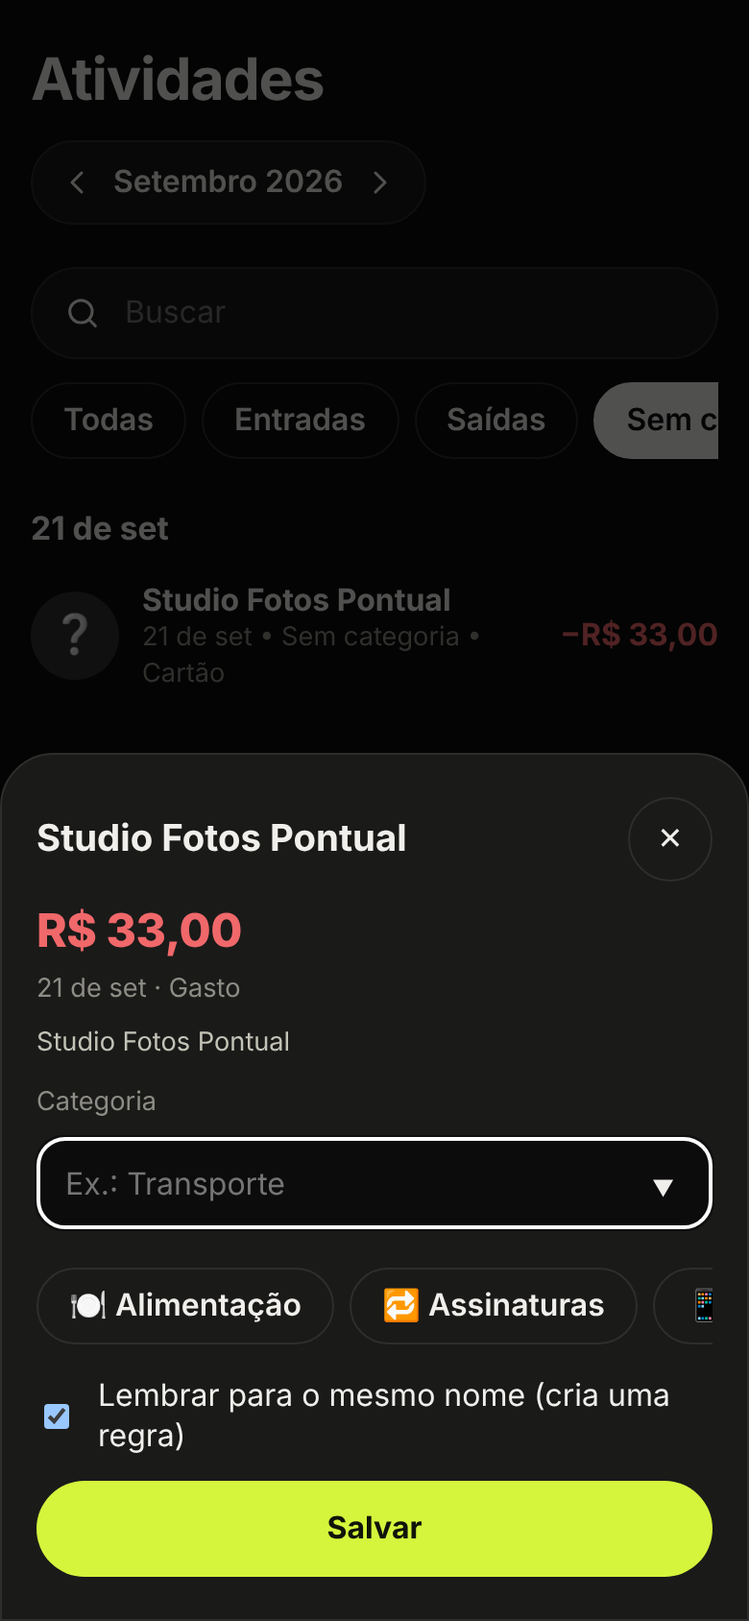
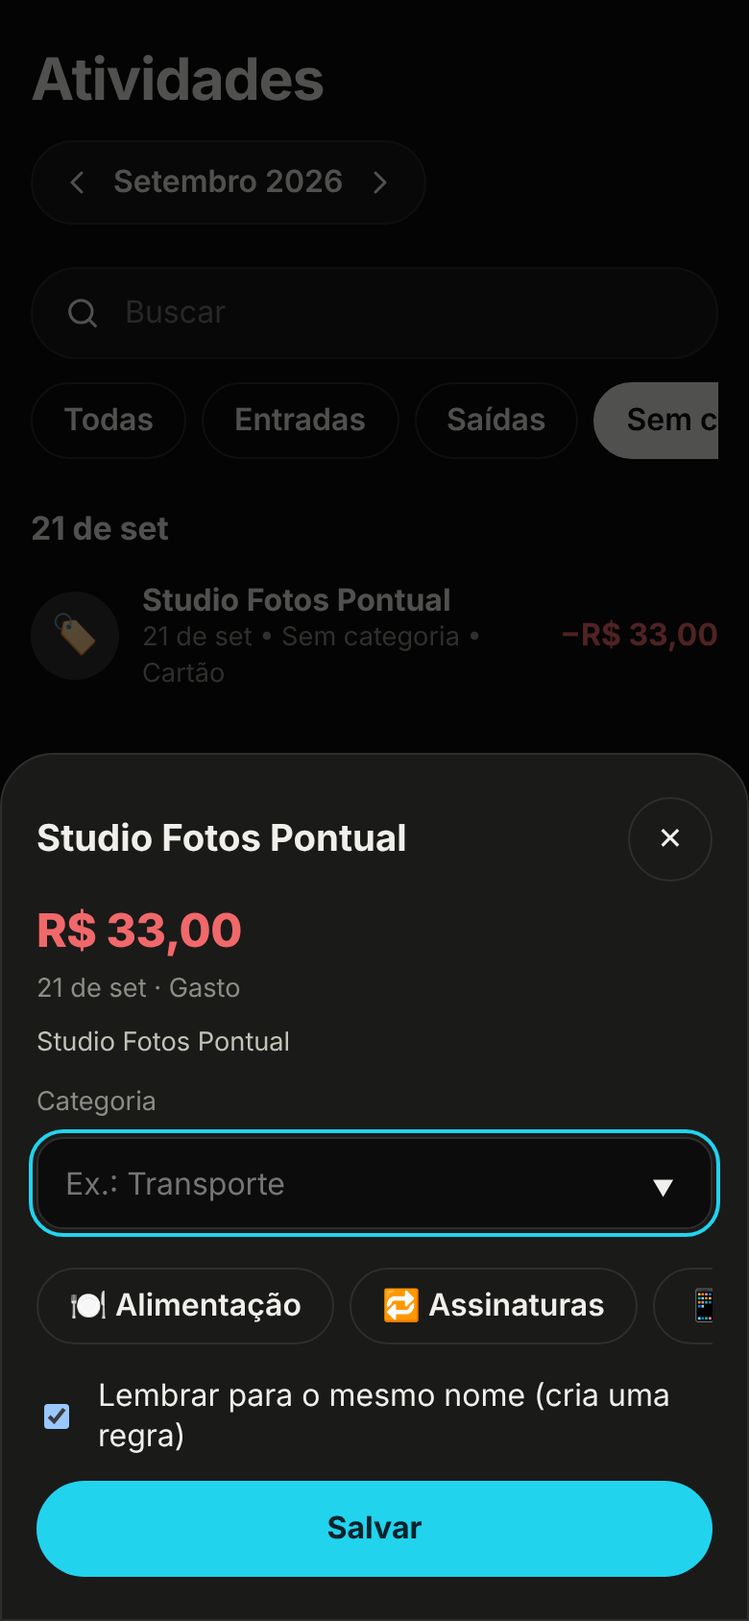
Identidade visual própria, tema claro opcional e layout de computador
- cor de destaque ciano, logo de barras, abas com rótulo (celular) e menu lateral (computador)
- tema claro opcional (botão no topo, guardado no navegador); escuro continua o padrão
- cartões em duas colunas no Início a partir de 900 px
- ADR 0014, spec de interface, pendências (P11 nome do app) e README com capturas dos dois temas
- docs/pendencias.md reorganizado com as etapas Levantamento, Arquitetura, Design e Código

Claude-Session: https://claude.ai/code/session_012U5KUNfcasu9aVVeAo4jQS

Changed region(s): [[0.0308, 0.8934, 0.9538, 0.9858], [0.0308, 0.6777, 0.9846, 0.7701], [0.0615, 0.3697, 0.1231, 0.4005]]

diff --git a/src/financas/static/style.css b/src/financas/static/style.css
@@ -1,27 +1,43 @@
-:root{
+/* Tokens: escuro é o padrão; o claro é opcional (botão no topo, guardado no navegador). */
+:root, :root[data-theme="dark"]{
   color-scheme:dark;
-  --bg:#0c0c0d; --card:#1a1a19; --card-2:#242423; --line:#2e2e2c;
+  --bg:#0c0c0d; --card:#1a1a19; --card-2:#242423; --line:#2e2e2c; --scrim:#000a;
   --text:#f0efec; --text-2:#c3c2b7; --muted:#8d8c85;
-  --accent:#d4f53c; --on-accent:#10140a;
+  --accent:#22d3ee; --on-accent:#04222a;
   --pos:#7be08a; --neg:#f0686a;
-  --c1:#3987e5; --c2:#d95926; --c3:#199e70; --c4:#c98500; --c5:#d55181; --c6:#008300; --c7:#9085e9; --c8:#e66767; --c0:#8a8983; --other:#55544f;
-  --r:24px;
+  /* categorias: paleta validada (dataviz) sobre o cartão #1a1a19 */
+  --c1:#3987e5; --c2:#d95926; --c3:#199e70; --c4:#c98500; --c5:#d55181; --c6:#008300; --c7:#9085e9; --c8:#e66767;
+  --c0:#8a8983; --other:#55544f;
 }
+:root[data-theme="light"]{
+  color-scheme:light;
+  --bg:#f3f2ee; --card:#fcfcfb; --card-2:#eceae4; --line:#dcdad2; --scrim:#0006;
+  --text:#171716; --text-2:#46453f; --muted:#6a6963;
+  --accent:#0e7490; --on-accent:#ffffff;
+  --pos:#136f33; --neg:#c0392b;
+  /* categorias: paleta validada (dataviz) sobre o cartão #fcfcfb */
+  --c1:#2a78d6; --c2:#eb6834; --c3:#1baf7a; --c4:#eda100; --c5:#e87ba4; --c6:#008300; --c7:#6250d6; --c8:#e34948;
+  --c0:#8a8983; --other:#b9b8b1;
+}
+:root{--r:24px}
 *{box-sizing:border-box;-webkit-tap-highlight-color:transparent}
 html,body{margin:0;background:var(--bg);color:var(--text);font:16px/1.35 system-ui,-apple-system,"Segoe UI",Roboto,sans-serif}
 button,input{font:inherit;color:inherit}
 button{background:none;border:0;padding:0;cursor:pointer}
-main{max-width:480px;margin:0 auto;padding:max(16px,env(safe-area-inset-top)) 16px 130px}
+main{max-width:480px;margin:0 auto;padding:max(16px,env(safe-area-inset-top)) 16px 110px}
 h1,h2,h3,p{margin:0}
 .muted{color:var(--muted)} .t2{color:var(--text-2)} .small{font-size:.85rem}
 .row{display:flex;align-items:center;gap:12px} .between{justify-content:space-between} .grow{flex:1;min-width:0}
 .stack{display:flex;flex-direction:column;gap:14px}
-.hdr{flex-wrap:wrap;display:flex;align-items:center;justify-content:space-between;gap:10px;margin:6px 0 22px}
+.hdr{display:flex;align-items:center;justify-content:space-between;flex-wrap:wrap;gap:10px;margin:6px 0 22px}
 .round{width:44px;height:44px;border-radius:50%;background:var(--card);border:1px solid var(--line);display:grid;place-items:center;flex:none}
 .round svg{width:20px;height:20px}
 .pill{white-space:nowrap;height:44px;padding:0 6px;border-radius:22px;background:var(--card);border:1px solid var(--line);display:flex;align-items:center;gap:2px;font-weight:600}
 .pill button{width:34px;height:34px;display:grid;place-items:center;border-radius:50%}
 .pill svg{width:16px;height:16px}
+.brand{display:flex;align-items:center;gap:10px;font-weight:800;font-size:1.15rem;letter-spacing:-.01em}
+.brand svg{width:30px;height:30px;flex:none}
+.brand-m{margin-bottom:6px}
 .greet{font-size:2rem;font-weight:600;letter-spacing:-.02em;margin-bottom:18px}
 .title{font-size:1.9rem;font-weight:700;letter-spacing:-.02em}
 .card{background:var(--card);border:1px solid var(--line);border-radius:var(--r);padding:18px;display:block;width:100%;text-align:left}
@@ -40,41 +56,58 @@ h1,h2,h3,p{margin:0}
 .seg i{display:block;border-radius:5px;background:var(--cc)}
 .chips{display:flex;gap:8px;overflow-x:auto;padding-bottom:4px;margin:12px 0 4px;scrollbar-width:none}
 .chip{height:40px;padding:0 16px;border-radius:20px;border:1px solid var(--line);background:transparent;white-space:nowrap;font-weight:600}
-.chip[aria-pressed=true]{background:var(--text);color:#111;border-color:var(--text)}
+.chip[aria-pressed=true]{background:var(--text);color:var(--bg);border-color:var(--text)}
 .search{display:flex;align-items:center;gap:10px;height:48px;padding:0 16px;border-radius:24px;border:1px solid var(--line);background:var(--card)}
 .search input{flex:1;background:none;border:0;outline:0;min-width:0}
 .day{font-weight:700;font-size:1.05rem;margin:22px 0 4px}
-.bar{height:6px;border-radius:3px;background:var(--card-2);overflow:hidden}
-.bar i{display:block;height:100%;background:var(--accent)}
 .legend{display:flex;gap:16px;color:var(--text-2);font-size:.85rem;margin:8px 0}
 .legend i{display:inline-block;width:18px;height:0;border-top:3px solid var(--accent);vertical-align:middle;margin-right:6px;border-radius:2px}
 .legend i.d{border-top:2px dashed var(--muted)}
 .chart{position:relative;touch-action:pan-y}
 .chart svg{display:block;width:100%;height:auto;overflow:visible}
-.tip{position:absolute;pointer-events:none;background:var(--card-2);border:1px solid var(--line);border-radius:12px;padding:8px 10px;font-size:.82rem;white-space:nowrap;transform:translate(-50%,-110%);box-shadow:0 6px 20px #0008}
+.tip{position:absolute;pointer-events:none;background:var(--card-2);border:1px solid var(--line);border-radius:12px;padding:8px 10px;font-size:.82rem;white-space:nowrap;transform:translate(-50%,-110%);box-shadow:0 6px 20px #0003}
 .axis{display:flex;justify-content:space-between;color:var(--muted);font-size:.8rem;margin-top:6px}
 .donut{display:block;margin:6px auto 4px;width:min(300px,80%);height:auto}
-.tabs{display:grid;grid-template-columns:1fr 1fr;padding:5px;border-radius:30px;border:1px solid var(--line);background:var(--card);margin:14px 0}
-.tabs button{height:44px;border-radius:24px;font-weight:600}
-.tabs button[aria-pressed=true]{background:var(--text);color:#111}
 .scrollx{overflow-x:auto;scrollbar-width:none}
 details{margin-top:14px;color:var(--text-2)} summary{cursor:pointer;color:var(--muted)}
 table{width:100%;border-collapse:collapse;font-size:.9rem;margin-top:8px}
 td,th{padding:6px 4px;border-bottom:1px solid var(--line);text-align:left} td:last-child,th:last-child{text-align:right}
-#nav{position:fixed;left:0;right:0;bottom:max(14px,env(safe-area-inset-bottom));display:flex;justify-content:center;gap:10px;padding:0 12px;pointer-events:none;z-index:5}
-#nav .pillnav{pointer-events:auto;display:flex;gap:2px;padding:6px;border-radius:34px;background:#1a1a19ee;border:1px solid var(--line);backdrop-filter:blur(14px)}
-#nav .pillnav button{width:62px;height:52px;border-radius:26px;display:grid;place-items:center;color:var(--text-2)}
-#nav .pillnav button[aria-current=page]{background:var(--card-2);color:var(--accent)}
-#nav svg{width:24px;height:24px}
-#nav .plus{pointer-events:auto;width:64px;height:64px;border-radius:50%;background:var(--accent);color:var(--on-accent);display:grid;place-items:center}
 svg.i{width:20px;height:20px;flex:none;fill:none;stroke:currentColor;stroke-width:1.8;stroke-linecap:round;stroke-linejoin:round}
 .hide .money{filter:blur(9px);user-select:none}
-#sheet{position:fixed;inset:0;background:#000a;z-index:20;display:flex;align-items:flex-end;justify-content:center}
+
+/* navegação: barra de abas no celular, menu lateral no computador */
+#nav{position:fixed;left:0;right:0;bottom:0;z-index:5;display:flex;background:var(--card);border-top:1px solid var(--line);padding:6px 6px max(6px,env(safe-area-inset-bottom))}
+#nav .brand{display:none}
+#nav .tabs{display:flex;width:100%}
+#nav .tab{flex:1;display:flex;flex-direction:column;align-items:center;gap:3px;padding:6px 2px;border-radius:12px;color:var(--muted);font-size:.72rem;font-weight:600}
+#nav .tab svg{width:24px;height:24px}
+#nav .tab[aria-current=page]{color:var(--accent)}
+#nav .tab[aria-current=page] svg{stroke-width:2.3}
+
+#sheet{position:fixed;inset:0;background:var(--scrim);z-index:20;display:flex;align-items:flex-end;justify-content:center}
 #sheet[hidden]{display:none}
 .sheet{width:min(480px,100%);max-height:88vh;overflow:auto;background:var(--card);border-radius:28px 28px 0 0;padding:22px 18px calc(22px + env(safe-area-inset-bottom));border:1px solid var(--line)}
 .sheet input[type=text]{width:100%;height:48px;border-radius:14px;border:1px solid var(--line);background:var(--bg);padding:0 14px;margin:8px 0}
 .btn{height:50px;border-radius:25px;background:var(--accent);color:var(--on-accent);font-weight:700;width:100%}
-.btn.ghost{background:var(--card-2);color:var(--text)}
-.drop{border:2px dashed var(--line);border-radius:var(--r);padding:34px 16px;text-align:center;color:var(--text-2)}
+.drop{display:block;border:2px dashed var(--line);border-radius:var(--r);padding:34px 16px;text-align:center;color:var(--text-2);cursor:pointer}
 .empty{text-align:center;color:var(--muted);padding:30px 0}
+:focus-visible{outline:2px solid var(--accent);outline-offset:2px}
 @media (prefers-reduced-motion:no-preference){.card,.chip,.item{transition:background .15s}.card:active,.item:active{background:var(--card-2)}}
+
+/* computador: menu lateral e cartões em duas colunas */
+@media (min-width:900px){
+  body{padding-left:230px}
+  #nav{top:0;right:auto;width:230px;flex-direction:column;border-top:0;border-right:1px solid var(--line);padding:24px 14px}
+  #nav .brand{display:flex;margin:0 8px 26px}
+  #nav .tabs{flex-direction:column;gap:4px}
+  #nav .tab{flex:none;flex-direction:row;gap:12px;padding:12px 14px;font-size:1rem}
+  #nav .tab:hover{background:var(--card-2)}
+  #nav .tab[aria-current=page]{background:var(--card-2)}
+  main{max-width:720px;padding-bottom:40px}
+  main[data-view=home]{max-width:1040px}
+  main[data-view=home] .stack{display:grid;grid-template-columns:1fr 1fr;align-items:start}
+  main[data-view=home] .stack .full{grid-column:1/-1}
+  .brand-m{display:none}
+  #sheet{align-items:center}
+  .sheet{border-radius:28px}
+}

diff --git a/src/financas/static/app.js b/src/financas/static/app.js
@@ -20,12 +20,19 @@ const now = new Date();
 const ymNow = `${now.getFullYear()}-${String(now.getMonth() + 1).padStart(2, "0")}`;
 const state = { view: "home", month: ymNow, hidden: store.get("hidden", false), filter: "all", q: "", category: null, flow: "geral", cache: {} };
 document.body.classList.toggle("hide", state.hidden);
+state.theme = store.get("theme", "dark") === "light" ? "light" : "dark";  // escuro é o padrão; claro é opcional
+const applyTheme = () => {
+  document.documentElement.dataset.theme = state.theme;
+  const m = document.querySelector('meta[name="theme-color"]'); if (m) m.content = state.theme === "light" ? "#f3f2ee" : "#0c0c0d";
+};
+applyTheme();
+const LOGO = `<svg viewBox="0 0 32 32" aria-hidden="true"><rect width="32" height="32" rx="9" fill="var(--accent)"/><rect x="7" y="17" width="4.5" height="8" rx="2.25" fill="var(--on-accent)"/><rect x="13.75" y="12" width="4.5" height="13" rx="2.25" fill="var(--on-accent)"/><rect x="20.5" y="7" width="4.5" height="18" rx="2.25" fill="var(--on-accent)"/></svg>`;
 
 /* ---------- categorias: cor por entidade (nunca por ranking) e ícone ---------- */
 const CATS = {
   "Transporte": [1, "🚗"], "Delivery": [2, "🛵"], "Mercado": [3, "🛒"], "Alimentação": [4, "🍽"],
   "Saúde": [5, "💊"], "Educação": [6, "🎓"], "Moradia": [7, "🏠"], "Compras": [8, "🛍"],
-  "Celular": [0, "📱"], "Assinaturas": [0, "🔁"], "Lazer": [0, "🎟"], "Cuidados": [0, "💈"], "Sem categoria": [0, "❔"],
+  "Celular": [0, "📱"], "Assinaturas": [0, "🔁"], "Lazer": [0, "🎟"], "Cuidados": [0, "💈"], "Sem categoria": [0, "🏷"],
 };
 const catColor = (n) => `var(--c${(CATS[n] || [0])[0]})`;
 const catIcon = (n) => (CATS[n] || [0, "•"])[1];
@@ -47,6 +54,9 @@ const ICON = {
   eyeOff: I('<path d="M2 12s4-7 10-7 10 7 10 7-4 7-10 7S2 12 2 12z"/><circle cx="12" cy="12" r="3"/><path d="M4 4l16 16"/>'),
   left: I('<path d="M15 6l-6 6 6 6"/>'),
   right: I('<path d="M9 6l6 6-6 6"/>'),
+  sun: I('<circle cx="12" cy="12" r="4"/><path d="M12 2v2M12 20v2M4.9 4.9l1.4 1.4M17.7 17.7l1.4 1.4M2 12h2M20 12h2M4.9 19.1l1.4-1.4M17.7 6.3l1.4-1.4"/>'),
+  moon: I('<path d="M20 14.5A8.5 8.5 0 0 1 9.5 4a8.5 8.5 0 1 0 10.5 10.5z"/>'),
+  upload: I('<path d="M12 16V4M12 4l-4 4M12 4l4 4M4 16v3a1 1 0 0 0 1 1h14a1 1 0 0 0 1-1v-3"/>'),
   search: I('<circle cx="11" cy="11" r="7"/><path d="M20 20l-3.5-3.5"/>'),
 };
 
@@ -160,7 +170,7 @@ function donut(rows, total) {
 }
 
 /* ---------- peças de UI ---------- */
-const hdrButtons = () => `<button class="round" data-act="eye" aria-label="${state.hidden ? "Mostrar valores" : "Ocultar valores"}">${state.hidden ? ICON.eyeOff : ICON.eye}</button>`;
+const hdrButtons = () => `<div class="row" style="gap:8px"><button class="round" data-act="theme" aria-label="${state.theme === "dark" ? "Usar tema claro" : "Usar tema escuro"}">${state.theme === "dark" ? ICON.sun : ICON.moon}</button><button class="round" data-act="eye" aria-label="${state.hidden ? "Mostrar valores" : "Ocultar valores"}">${state.hidden ? ICON.eyeOff : ICON.eye}</button></div>`;
 const monthPill = () => `<div class="pill"><button data-act="prev" aria-label="Mês anterior">${ICON.left}</button><span>${ymLabel(state.month)}</span><button data-act="next" aria-label="Próximo mês" ${state.month >= ymNow ? "disabled style='opacity:.3'" : ""}>${ICON.right}</button></div>`;
 const backHdr = (extra = "") => `<div class="hdr"><button class="round" data-go="home" aria-label="Voltar">${ICON.left}</button><div class="row">${extra}${hdrButtons()}</div></div>`;
 const prettyName = (t) => (t.account === "nubank_conta" && t.counterparty)
@@ -185,13 +195,14 @@ async function viewHome() {
   const cats = catRows(rep), pend = cats.find((c) => c.nome === "Sem categoria");
   const top = cats.slice(0, 3), rest = cats.length - top.length;
   const saldo = rep.receitas_total - rep.gastos_total;
-  return `<div class="hdr">${monthPill()}${hdrButtons()}</div>
+  return `<div class="brand brand-m">${LOGO}<span>Finanças</span></div>
+  <div class="hdr">${monthPill()}${hdrButtons()}</div>
   <h1 class="greet">${greeting()} 👋</h1>
   <div class="stack">
+    ${pend ? `<button class="card full" data-go="activity" data-filter="uncat"><div class="lbl"><span>Para categorizar</span>${ICON.right}</div>
+      <div class="mid" style="margin-top:6px">${pend.qtd} ${pend.qtd === 1 ? "transação" : "transações"} · ${money(pend.valor)}</div><div class="muted small">Toque para classificar</div></button>` : ""}
     <button class="card" data-go="spend"><div class="lbl"><span>Gastos do mês</span>${ICON.right}</div>
       <div class="big">${money(rep.gastos_total)}</div>${lineChart({ cur, prev, upto, mini: true })}</button>
-    ${pend ? `<button class="card" data-go="activity" data-filter="uncat"><div class="lbl"><span>Para categorizar</span>${ICON.right}</div>
-      <div class="mid" style="margin-top:6px">${pend.qtd} ${pend.qtd === 1 ? "transação" : "transações"} · ${money(pend.valor)}</div><div class="muted small">Toque para classificar</div></button>` : ""}
     <div class="card"><div class="lbl"><span>Categorias</span></div>
       <div class="seg" role="img" aria-label="Distribuição dos gastos">${top.map((c) => `<i style="flex:${c.valor};--cc:${c.cor}"></i>`).join("") || `<i style="flex:1;--cc:var(--card-2)"></i>`}</div>
       ${top.map((c) => `<button class="item" data-go="activity" data-cat="${esc(c.nome)}"><span class="ico sm" style="--cc:${c.cor}">${catIcon(c.nome)}</span><span class="grow"><div class="nm">${esc(c.nome)}</div><div class="muted small">${pct(c.pct)}</div></span><span class="amt">${money(c.valor)}</span></button>`).join("") || `<p class="empty">Sem gastos neste mês.</p>`}
@@ -306,13 +317,13 @@ const closeSheet = () => { $sheet.hidden = true; $sheet.innerHTML = ""; };
 /* ---------- navegação e render ---------- */
 const VIEWS = { home: viewHome, spend: viewSpend, activity: viewActivity, flow: viewFlow, import: viewImport };
 function renderNav() {
-  const b = (v, ic, label) => `<button data-go="${v}" aria-label="${label}" ${state.view === v ? 'aria-current="page"' : ""}>${ICON[ic]}</button>`;
-  $nav.innerHTML = `<div class="pillnav">${b("home", "home", "Início")}${b("activity", "list", "Atividades")}${b("spend", "pie", "Gastos")}${b("flow", "flow", "Fluxo")}</div>
-    <button class="plus" data-go="import" aria-label="Importar CSV">${ICON.plus}</button>`;
+  const t = (v, ic, label) => `<button class="tab" data-go="${v}" ${state.view === v ? 'aria-current="page"' : ""}>${ICON[ic]}<span>${label}</span></button>`;
+  $nav.innerHTML = `<div class="brand">${LOGO}<span>Finanças</span></div><div class="tabs">${t("home", "home", "Início")}${t("activity", "list", "Atividades")}${t("spend", "pie", "Gastos")}${t("flow", "flow", "Fluxo")}${t("import", "upload", "Importar")}</div>`;
 }
 async function render() {
   renderNav();
   try {
+    $app.dataset.view = state.view;
     $app.innerHTML = await VIEWS[state.view]();
   } catch (e) {
     $app.innerHTML = `<div class="card"><b>Não foi possível carregar</b><p class="muted" style="margin-top:6px">${esc(e.message)}</p><button class="btn" style="margin-top:14px" data-go="home">Tentar de novo</button></div>`;
@@ -363,6 +374,7 @@ document.addEventListener("click", async (ev) => {
     return;
   }
   if (d.tx) return openSheet(Number(d.tx));
+  if (d.act === "theme") { state.theme = state.theme === "dark" ? "light" : "dark"; store.set("theme", state.theme); applyTheme(); return render(); }
   if (d.act === "eye") { state.hidden = !state.hidden; store.set("hidden", state.hidden); document.body.classList.toggle("hide", state.hidden); return render(); }
   if (d.act === "prev" || d.act === "next") { const m = ymShift(state.month, d.act === "prev" ? -1 : 1); if (m <= ymNow) { state.month = m; render(); } return; }
   if (d.flow) { state.flow = d.flow; return render(); }

diff --git a/src/financas/static/index.html b/src/financas/static/index.html
@@ -6,14 +6,15 @@
 <meta name="theme-color" content="#0c0c0d">
 <meta name="apple-mobile-web-app-capable" content="yes">
 <meta name="apple-mobile-web-app-status-bar-style" content="black-translucent">
+<script>try{var t=JSON.parse(localStorage.getItem("theme"));if(t==="light"||t==="dark")document.documentElement.dataset.theme=t}catch(e){}</script>
 <link rel="manifest" href="/manifest.webmanifest">
 <link rel="icon" href="/static/icon.svg" type="image/svg+xml">
 <link rel="stylesheet" href="/static/style.css">
 <title>Finanças</title>
 </head>
 <body>
-<main id="app" aria-live="polite"></main>
 <nav id="nav" aria-label="Navegação"></nav>
+<main id="app" aria-live="polite"></main>
 <div id="sheet" hidden></div>
 <script src="/static/app.js"></script>
 </body>

diff --git a/tests/test_views.py b/tests/test_views.py
@@ -48,3 +48,12 @@ def test_static_and_manifest(client):
     assert client.get("/").status_code == 200
     assert client.get("/manifest.webmanifest").json()["name"]
     assert client.get("/static/app.js").status_code == 200
+
+
+def test_temas_claro_e_escuro_e_menu(client):
+    css = client.get("/static/style.css").text
+    assert 'data-theme="light"' in css and "--accent" in css
+    html = client.get("/").text
+    assert "localStorage.getItem(\"theme\")" in html  # aplica o tema antes de pintar
+    assert "icon.svg" in html
+    assert "<svg" in client.get("/static/icon.svg").text

diff --git a/docs/pendencias.md b/docs/pendencias.md
@@ -2,14 +2,24 @@
 
 Este arquivo guarda duas coisas que **não** são spec: o **status** do projeto (fases) e o que **falta decidir**. Spec diz o que o sistema faz; ADR diz por quê.
 
-## Fases
+## Onde estamos
+
+O projeto segue as mesmas quatro etapas do Lifetrailer. Aqui elas se misturaram no começo (conversamos e já codamos, e a documentação veio depois), por isso a tabela diz **o que cada etapa cobriu**, não uma ordem rígida.
+
+| Etapa | Estado | O que cobre | Onde está |
+|---|---|---|---|
+| **Levantamento** | ✅ fechado | Quem usa, CSV antes de Open Finance, bancos, objetivo, o que fica para depois | ADRs 0001, 0002, 0006, 0008, 0012, 0013 |
+| **Arquitetura** | ✅ fechado | Stack, o que conta como gasto, chave de duplicata, repasse, dinheiro em centavos | Specs `importacao`, `classificacao`, `categorias`, `relatorios`; ADRs 0003 a 0005 e 0011 |
+| **Design** | ✅ fechado | Telas, cores por categoria, identidade própria, tema claro opcional, layout de computador | Spec `interface`; ADRs 0009, 0010, 0014 |
+| **Código** | 🟡 em andamento | Importador, classificação, regras, relatórios e telas estão prontos. O resto depende de uso real (abaixo) | `src/`, `tests/` |
+
+**Numeração antiga das fases** (usada nos ADRs, que não se editam depois de aceitos): 0 e 1 = Levantamento e Arquitetura; 2 = Design; 3 em diante = Código. Fase 3 (uso real) é a etapa de código em que você usa o app e aponta o que falta.
+
+### Fases do código (numeração dos ADRs)
 
 | Fase | Objetivo | Estado |
 |---|---|---|
-| 0 · Descoberta | Entender o problema, escolher stack e escopo | ✅ fechada (ADRs 0001, 0002, 0006, 0008) |
-| 1 · Fundação | Importar CSV de conta e fatura, classificar, categorizar, relatório mensal | ✅ fechada (specs `importacao`, `classificacao`, `categorias`, `relatorios`) |
-| 2 · Interface | Telas mobile-first, demonstração fictícia, documentação | ✅ fechada (spec `interface`, ADRs 0007, 0009, 0010) |
-| **3 · Uso real** | Rodar no dia a dia, importar vários meses, corrigir o que incomodar | **em andamento** |
+| 3 · Uso real | Rodar no dia a dia, importar vários meses, corrigir o que incomodar | **próxima** |
 | 4 · Controle | Orçamento por categoria, assinaturas, parcelas futuras, tela de regras | aguardando a fase 3 |
 | 5 · Patrimônio | Saldos e investimentos informados à mão, metas, exportação e backup | aguardando |
 | 6 · Automático e compartilhado | Open Finance, login, hospedagem, uso por duas pessoas | aguardando |
@@ -29,10 +39,11 @@ Este arquivo guarda duas coisas que **não** são spec: o **status** do projeto 
 | P7 | Saldo das contas: lembrete mensal para o dono informar? | Fase 5 | Aviso na tela Início, no dia 1 |
 | P8 | Open Finance: qual agregador e qual o custo real? | Fase 6 | Pesquisar só quando chegar a fase 6 |
 | P9 | Compartilhar com mais uma pessoa: login, onde hospedar, como proteger a API | Fase 6 | Hospedagem simples com login; **a API atual não pode ser exposta** (ADR 0008) |
-| P10 | Ícone do app em PNG para o iPhone; tema claro | Fase 3 | Gerar o PNG quando o dono instalar no celular |
+| P10 | Ícone do app em PNG para o iPhone | Fase 3 | Gerar o PNG quando o dono instalar no celular |
+| P11 | Nome do app: "Finanças" é genérico; a identidade visual já é própria, o nome ainda não | Antes de divulgar | O Thiago escolhe; trocar é só texto e o logo |
 
 ## Antes de divulgar como portfólio
 
 - [ ] O Thiago revisa e ajusta `docs/processo-de-trabalho.md` para refletir como ele realmente trabalha.
-- [ ] O Thiago revisa os ADRs marcados **Proposto** (0003, 0004, 0005, 0007, 0009, 0010, 0011) e muda o status para **Aceito** ou revoga com um ADR novo.
+- [ ] O Thiago revisa os ADRs marcados **Proposto** (0003, 0004, 0005, 0007, 0009, 0010, 0011, 0014) e muda o status para **Aceito** ou revoga com um ADR novo.
 - [ ] Conferir o histórico do git por dado pessoal antes de tornar o repositório mais visível.

diff --git a/README.md b/README.md
@@ -8,18 +8,39 @@ Nasceu de uma necessidade pessoal: ter visão do próprio dinheiro a partir do q
 
 ## Telas
 
-Capturas em celular (390×844), com os dados fictícios de `data/demo/`.
+Capturas com os dados fictícios de `data/demo/`. A interface é **inspirada em apps de finanças modernos** (cartões, gráfico acumulado, lista por dia); a identidade visual — cor, marca e navegação — é própria. O tema escuro é o padrão e o **claro é opcional** (botão no topo).
+
+**Celular, tema escuro** (390×844)
 
 <table>
 <tr>
-<td><img src="docs/img/inicio.png" width="230" alt="Início"><br><b>Início</b>: gastos do mês, pendentes e categorias</td>
+<td><img src="docs/img/inicio.png" width="230" alt="Início"><br><b>Início</b>: pendentes, gastos e categorias</td>
 <td><img src="docs/img/gastos.png" width="230" alt="Gastos"><br><b>Gastos</b>: acumulado contra o mês anterior</td>
 <td><img src="docs/img/gastos-categorias.png" width="230" alt="Categorias"><br><b>Categorias</b>: rosca e lista</td>
 </tr>
 <tr>
-<td><img src="docs/img/atividades.png" width="230" alt="Atividades"><br><b>Atividades</b>: busca, filtros, agrupado por dia</td>
+<td><img src="docs/img/atividades.png" width="230" alt="Atividades"><br><b>Atividades</b>: busca, filtros, por dia</td>
 <td><img src="docs/img/categorizar.png" width="230" alt="Categorizar"><br><b>Categorizar</b>: um toque, com "lembrar"</td>
 <td><img src="docs/img/fluxo.png" width="230" alt="Fluxo"><br><b>Fluxo</b>: receitas e gastos por dia</td>
+</tr>
+</table>
+
+**Tema claro (opcional)**
+
+<table>
+<tr>
+<td><img src="docs/img/inicio-claro.png" width="230" alt="Início, tema claro"></td>
+<td><img src="docs/img/gastos-claro.png" width="230" alt="Gastos, tema claro"></td>
+<td><img src="docs/img/atividades-claro.png" width="230" alt="Atividades, tema claro"></td>
+</tr>
+</table>
+
+**Computador** (menu lateral e cartões em duas colunas)
+
+<table>
+<tr>
+<td><img src="docs/img/computador.png" width="460" alt="Computador, tema escuro"></td>
+<td><img src="docs/img/computador-claro.png" width="460" alt="Computador, tema claro"></td>
 </tr>
 </table>
 
@@ -56,7 +77,7 @@ O app classifica cada lançamento em um tipo e só conta como gasto o que é gas
 | Repasse: pareamento exato e por soma, sem esconder gasto de verdade | [ADR 0005](docs/adr/0005-repasse.md) |
 | Categorias por regras, em vez de IA enviando extrato a uma API | [ADR 0006](docs/adr/0006-categorias.md) |
 | Repositório público, dados reais fora do git, demonstração fictícia | [ADR 0007](docs/adr/0007-dado-real-fora-do-git.md) |
-| Interface sem build e cor fixa por categoria (paleta validada para daltonismo) | [ADR 0009](docs/adr/0009-interface-sem-build.md), [0010](docs/adr/0010-cor-por-categoria.md) |
+| Interface sem build, cor fixa por categoria (paleta validada para daltonismo), identidade própria e tema claro opcional | [ADR 0009](docs/adr/0009-interface-sem-build.md), [0010](docs/adr/0010-cor-por-categoria.md), [0014](docs/adr/0014-identidade-visual-e-temas.md) |
 
 Spec diz **o que** o sistema faz (`docs/spec/`); ADR diz **por quê** (`docs/adr/`). **ADR aceito não se edita:** decisão nova revoga a antiga com outro ADR.
 

diff --git a/docs/adr/0014-identidade-visual-e-temas.md b/docs/adr/0014-identidade-visual-e-temas.md
@@ -1,0 +1,25 @@
+# ADR 0014 — Identidade visual própria, tema claro opcional e layout de computador
+
+- **Status:** Proposto — aguarda revisão do Thiago
+- **Data:** 2026-10-09
+- **Fase:** 2 — Design
+- **Decidido por:** Thiago pediu (identidade própria, tema claro opcional, computador); a cor, a marca e a navegação foram escolhidas por Claude e **aguardam revisão do Thiago**
+
+## Contexto
+
+A primeira interface (ADR 0009) foi inspirada em um app de finanças existente e acabou parecida com ele no clima: tema escuro, destaque em verde-limão, menu flutuante em pílula com botão "+" e lista por dia. Como o projeto também é portfólio, ele precisa ter identidade própria. Além disso, o Thiago quer poder usar no computador e escolher o tema.
+
+## Decisão
+
+- **Cor de destaque:** ciano — `#22d3ee` no escuro, `#0e7490` no claro. Aparece só em linhas, aba ativa e botão principal; as categorias seguem a paleta do ADR 0010.
+- **Marca:** três barras crescentes sobre quadrado arredondado na cor de destaque (logo, ícone do app e favicon). Nome mantido: "Finanças".
+- **Navegação:** barra de abas **com rótulos** no celular; **menu lateral** no computador. O botão flutuante "+" deixa de existir: "Importar" é uma aba.
+- **Tema claro opcional:** o padrão continua escuro. Um botão no topo alterna e a escolha fica guardada no navegador (se ele não guardar, segue sem lembrar). Não segue a configuração do sistema, de propósito: a escolha é do usuário.
+- **Computador (a partir de 900 px):** menu lateral, conteúdo centralizado e, no Início, cartões em duas colunas.
+
+## Consequências
+
+- **Contraste verificado:** nos dois temas, texto, destaque e valores positivos e negativos passam de 4,5:1 sobre o cartão e sobre o fundo.
+- **Paleta de categorias no claro** (a do ADR 0010, passos claros) passou em todas as verificações de cor, mas três cores ficam abaixo de 3:1 sobre o cartão claro. O alívio exigido está cumprido: a lista de categorias nomeia cada fatia e há tabela de valores por dia.
+- A cor de destaque não faz parte da paleta de categorias e não foi validada como par categórico; por isso ela só marca elementos de interface, nunca uma categoria.
+- O nome "Finanças" é genérico (pendência P11). A identidade visual é própria; o nome ainda não.

diff --git a/docs/spec/interface.md b/docs/spec/interface.md
@@ -1,6 +1,6 @@
 # Spec — Interface
 
-Mobile-first, tema escuro, sem build. Código em `src/financas/static/`. O "porquê" está nos ADRs 0009 e 0010.
+Mobile-first, sem build. Código em `src/financas/static/`. O "porquê" está nos ADRs 0009, 0010 e 0014.
 
 ## Telas
 
@@ -11,6 +11,12 @@ Mobile-first, tema escuro, sem build. Código em `src/financas/static/`. O "porq
 | **Gastos** | Gasto acumulado do mês contra o mês anterior (linha tracejada), com valor por dia ao tocar; rosca e lista de categorias; tabela de valores por dia |
 | **Fluxo** | Receitas e gastos por dia (Geral, Entradas, Saídas) e saldo do mês |
 | **Importar** | Escolher ou arrastar vários CSV; resultado por arquivo |
+
+## Navegação e temas
+
+- **Celular:** barra de abas com rótulos (Início, Atividades, Gastos, Fluxo, Importar), fixa embaixo.
+- **Computador (a partir de 900 px):** menu lateral com a marca; conteúdo centralizado; no Início, cartões em duas colunas.
+- **Tema:** escuro por padrão. Um botão (sol/lua) no topo alterna entre escuro e claro; a escolha fica guardada no navegador e é aplicada antes de desenhar a tela, para não piscar.
 
 ## Comportamentos
 

diff --git a/CLAUDE.md b/CLAUDE.md
@@ -2,7 +2,7 @@
 
 App pessoal de finanças: importa o CSV de conta e de fatura do Nubank, classifica cada lançamento, categoriza por regras e mostra para onde o dinheiro vai. Roda **local** (SQLite), com interface web pensada para celular. Um projeto solo, que resolve uma necessidade real e também serve de portfólio.
 
-**Fase atual: 3 — uso real.** Fases 0–2 (descoberta, importação/classificação e interface) estão fechadas e documentadas. Não reabra decisão de fase anterior sem ADR. As fases ficam em `docs/pendencias.md`.
+**Onde estamos:** Levantamento e Arquitetura fechados; **Design fechado** (identidade própria, tema claro opcional, computador); **Código** em andamento, com a fase 3 (uso real) logo depois. Não reabra decisão de etapa anterior sem ADR. O quadro completo está em `docs/pendencias.md`.
 
 Pessoa: **Thiago** (dono, decide produto e regra de dinheiro; não é obrigado a ler código — vê o resultado e o PR).
 

diff --git a/docs/adr/0010-cor-por-categoria.md b/docs/adr/0010-cor-por-categoria.md
@@ -17,4 +17,4 @@ Cada categoria conhecida tem **uma cor fixa**, tirada de uma paleta categórica 
 
 - A paleta passou em todas as verificações; a separação para daltonismo fica perto do mínimo recomendado, por isso as fatias da rosca têm folga e a lista as nomeia.
 - Só 8 categorias têm cor. Uma categoria nova do usuário aparece em cinza até haver decisão de como atribuir cores a categorias livres (`docs/pendencias.md`).
-- Tema claro não existe ainda.
+- Tema claro: ver ADR 0014.
